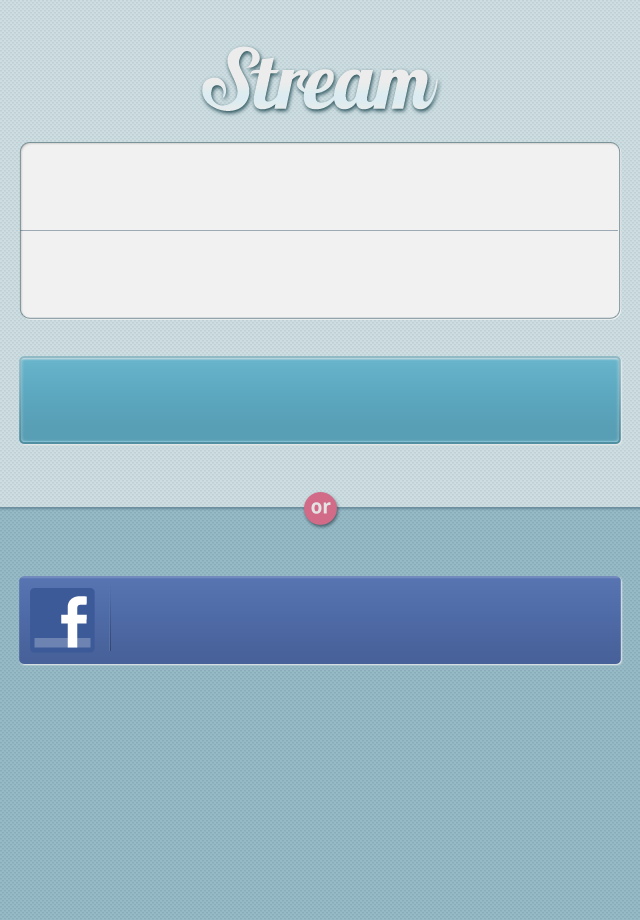
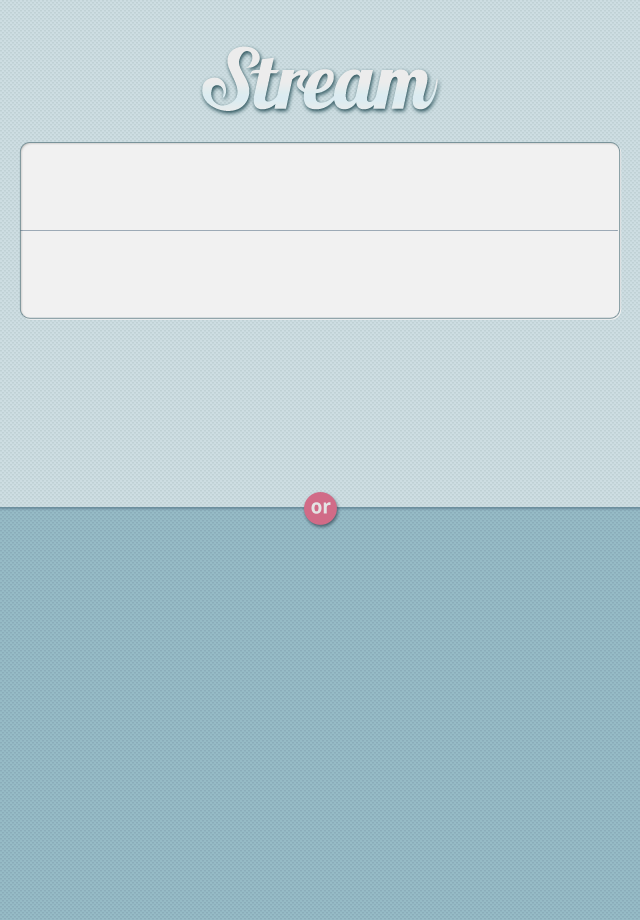
new button graphics.

Changed region(s): [[0.0312, 0.6087, 0.9688, 0.7304], [0.0312, 0.3652, 0.9688, 0.487]]

diff --git a/wammer/WALoginViewController.m b/wammer/WALoginViewController.m
@@ -69,14 +69,22 @@
 	
 	// Dress up buttons
 	
-//	[self.signInButton 
-//		setImage:[[UIImage imageNamed:@"SignInButton"] resizableImageWithCapInsets:(UIEdgeInsets){16,6,16,6}] 
-//		forState:UIControlStateNormal];
-//	[self.signInButton
-//		setImage:[[UIImage imageNamed:@"SignInButtonPressed"] resizableImageWithCapInsets:(UIEdgeInsets){16,6,16,6}]
-//	 forState: UIControlStateHighlighted];
+	[self.signInButton 
+		setBackgroundImage:[[UIImage imageNamed:@"SignInButton"] resizableImageWithCapInsets:(UIEdgeInsets){22, 5,22, 5}] 
+		forState:UIControlStateNormal];
+	[self.signInButton
+		setBackgroundImage:[[UIImage imageNamed:@"SignInButtonPressed"] resizableImageWithCapInsets:(UIEdgeInsets){22, 5,22, 5}]
+	 forState: UIControlStateHighlighted];
 	 
 	
+	[self.signInWithFacebookButton
+		setBackgroundImage:[[UIImage imageNamed:@"SignInWithFacebookButton"] resizableImageWithCapInsets:(UIEdgeInsets){22,5,22,5}] 
+		forState:UIControlStateNormal];
+	[self.signInWithFacebookButton
+		setBackgroundImage:[[UIImage imageNamed:@"SignInWithFacebookButtonPressed"] resizableImageWithCapInsets:(UIEdgeInsets){22,5,22,5}] 
+		forState:UIControlStateHighlighted];
+		
+		
 }
 
 - (void)viewDidUnload
